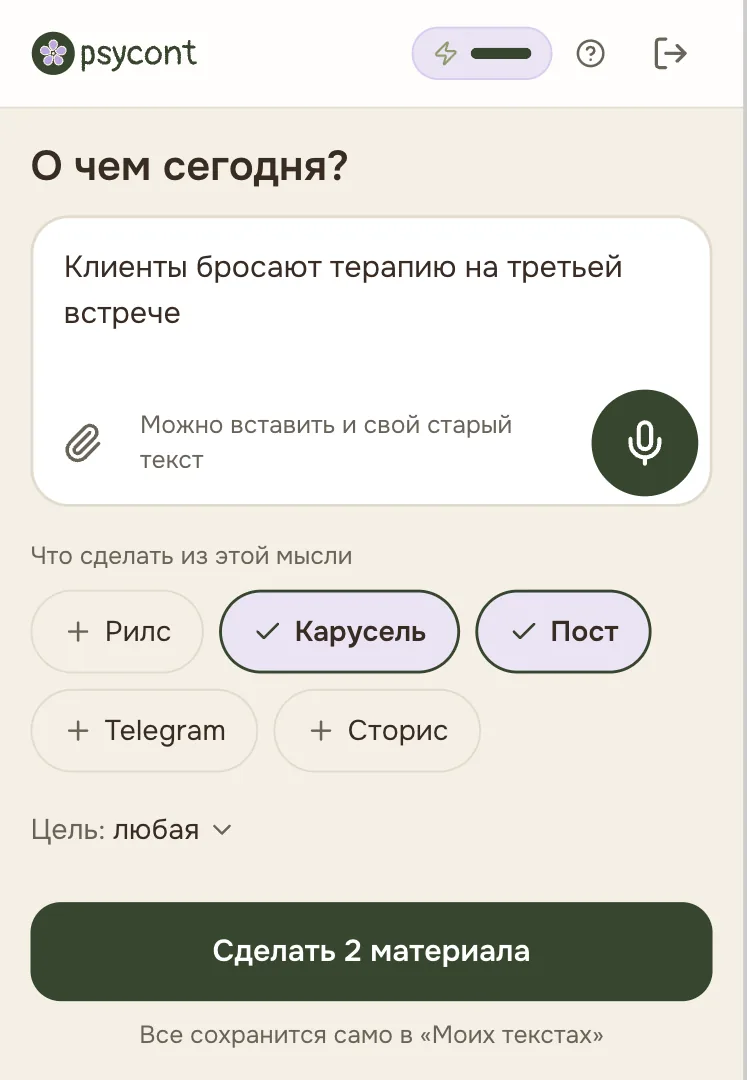
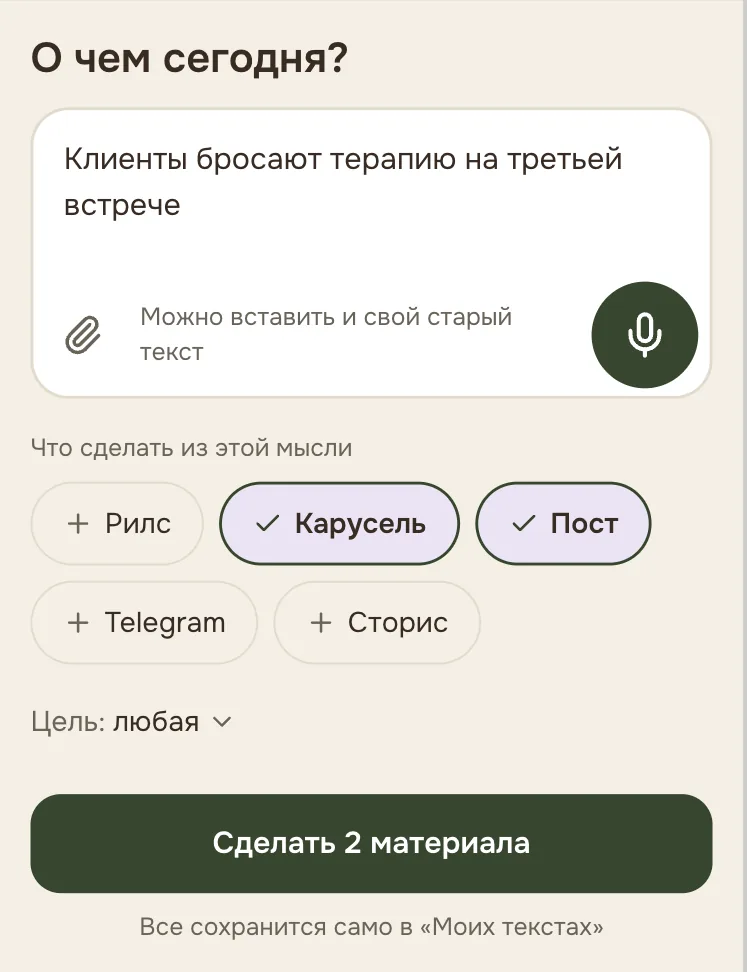
лендинг: снимки шагов без шапки кабинета и без обрезки по бокам, шапка с зерном

diff --git a/app/page.tsx b/app/page.tsx
@@ -28,11 +28,12 @@ function Underline() {
   )
 }
 
-function PhoneShot({ src, alt }: { src: string; alt: string }) {
+// Снимок во всю ширину рамки, лишнее уходит только снизу: бока экрана не режем
+function PhoneShot({ src, alt, w, h }: { src: string; alt: string; w: number; h: number }) {
   return (
     <div className="w-[232px] rounded-[40px] border border-brand-border bg-white p-2 shadow-[0_1px_2px_rgba(59,42,34,.06)] lg:w-[300px]">
-      <div className="relative aspect-[375/600] overflow-hidden rounded-[32px] border border-brand-border">
-        <Image src={src} alt={alt} fill sizes="(min-width: 1024px) 284px, 216px" className="object-cover object-top" />
+      <div className="aspect-[375/600] overflow-hidden rounded-[32px] border border-brand-border bg-brand-bg">
+        <Image src={src} alt={alt} width={w} height={h} sizes="(min-width: 1024px) 284px, 216px" className="block h-auto w-full" />
       </div>
     </div>
   )
@@ -45,7 +46,7 @@ export default function Home() {
       <Header />
       <main>
         {/* 2. Первый экран */}
-        <section className={`${WRAP} pt-6 pb-[72px] lg:grid lg:min-h-[600px] lg:grid-cols-12 lg:items-end lg:gap-8 lg:pt-20 lg:pb-36`}>
+        <section className={`${WRAP} pt-6 pb-[72px] lg:grid lg:min-h-[560px] lg:grid-cols-12 lg:items-center lg:gap-8 lg:pt-16 lg:pb-28`}>
           <div className="lg:col-span-7">
             <h1 className="max-w-[640px] text-[36px] font-bold leading-[1.1] tracking-[-0.01em] text-brand-text lg:text-[60px]">
               {HERO.title}{' '}
@@ -62,7 +63,7 @@ export default function Home() {
               <Image src="/vera/privet.webp" alt="Вера машет рукой" width={278} height={360} priority className="h-[168px] w-auto lg:h-[300px]" />
               <figcaption className="mt-2 text-center text-[14px] text-brand-muted">{HERO.veraRole}</figcaption>
             </figure>
-            <p className="relative mb-12 max-w-[260px] rounded-3xl border border-brand-border-soft bg-brand-soft px-4 py-3 text-[16px] leading-[1.45] text-brand-text lg:mb-24">
+            <p className="relative mb-12 min-w-0 flex-1 rounded-3xl border border-brand-border-soft bg-brand-soft px-4 py-3 text-[16px] leading-[1.45] text-brand-text lg:mb-24 lg:max-w-[260px] lg:flex-none">
               {HERO.veraSays}
             </p>
           </div>
@@ -109,7 +110,7 @@ export default function Home() {
                       )}
                     </div>
                     <div className={`mt-8 flex justify-center lg:mt-0 ${mirror ? 'lg:col-span-4 lg:col-start-2 lg:row-start-1' : 'lg:col-span-4 lg:col-start-8'}`}>
-                      <PhoneShot src={s.shot} alt={s.alt} />
+                      <PhoneShot src={s.shot} alt={s.alt} w={s.w} h={s.h} />
                     </div>
                   </li>
                 )
@@ -246,7 +247,7 @@ export default function Home() {
       <footer className="bg-brand-text py-12 text-brand-bg lg:py-16">
         <div className={`${WRAP} flex flex-col gap-6 lg:flex-row lg:items-end lg:justify-between`}>
           <div>
-            <Image src="/brand/psycont-wordmark-light.svg" alt="PsyCont" width={105} height={32} className="h-8 w-auto" />
+            <Image src="/brand/psycont-wordmark-light.svg" alt="PsyCont" width={131} height={40} className="h-10 w-auto" />
             <p className="mt-3 text-[15px] text-[#D9CFC0]">{FOOTER.slogan}</p>
           </div>
           <div className="flex flex-col gap-2 text-[15px] lg:items-end">

diff --git a/components/landing/content.ts b/components/landing/content.ts
@@ -34,19 +34,19 @@ export const HOW = {
     {
       title: 'Пять вопросов про тебя',
       text: 'Вера спросит, как тебя зовут, в каком подходе работаешь и с чем к тебе приходят. И попросит рассказать, как ты говоришь с клиентами, это можно наговорить голосом.',
-      shot: '/landing/step-1-voprosy.webp',
+      shot: '/landing/step-1-voprosy.webp', w: 760, h: 1160,
       alt: 'Экран онбординга: вопрос «В каком подходе работаешь?» и варианты подходов',
     },
     {
       title: 'Тема или своя мысль',
       text: 'Впиши мысль, которая крутится после сессий, или надиктуй ее. Если в голове пусто, нажми «Не знаю, о чем писать», там будет тема дня.',
-      shot: '/landing/step-2-mysl.webp',
+      shot: '/landing/step-2-mysl.webp', w: 747, h: 972,
       alt: 'Экран «Сделать»: мысль в поле, выбраны пост и карусель',
     },
     {
       title: 'Из одной мысли пост, карусель и рилс',
       text: 'У каждого формата свое начало, тексты не пересказывают друг друга. Поправь что хочешь, скопируй и выкладывай.',
-      shot: '/landing/step-3-teksty.webp',
+      shot: '/landing/step-3-teksty.webp', w: 747, h: 1312,
       alt: 'Экран «Мои тексты»: готовые материалы по формату',
     },
   ],

diff --git a/components/landing/Header.tsx b/components/landing/Header.tsx
@@ -16,7 +16,7 @@ export default function Header() {
     return () => window.removeEventListener('scroll', on)
   }, [])
   return (
-    <header className={`sticky top-0 z-40 bg-brand-bg transition-colors ${scrolled ? 'border-b border-brand-border' : 'border-b border-transparent'}`}>
+    <header className={`sticky top-0 z-40 bg-brand-bg bg-[url('/paper-grain.png')] bg-[length:128px_128px] transition-colors ${scrolled ? 'border-b border-brand-border' : 'border-b border-transparent'}`}>
       <div className="mx-auto flex h-14 w-full max-w-[1120px] items-center justify-between gap-3 px-4 md:px-8 lg:h-[72px]">
         <Link href="/" aria-label="PsyCont, на главную" className="flex shrink-0 items-center rounded-lg focus-visible:outline-2 focus-visible:outline-offset-4 focus-visible:outline-brand-accent">
           <Image src="/brand/psycont-wordmark.svg" alt="PsyCont" width={119} height={32} priority className="hidden h-8 w-auto min-[361px]:block" />
